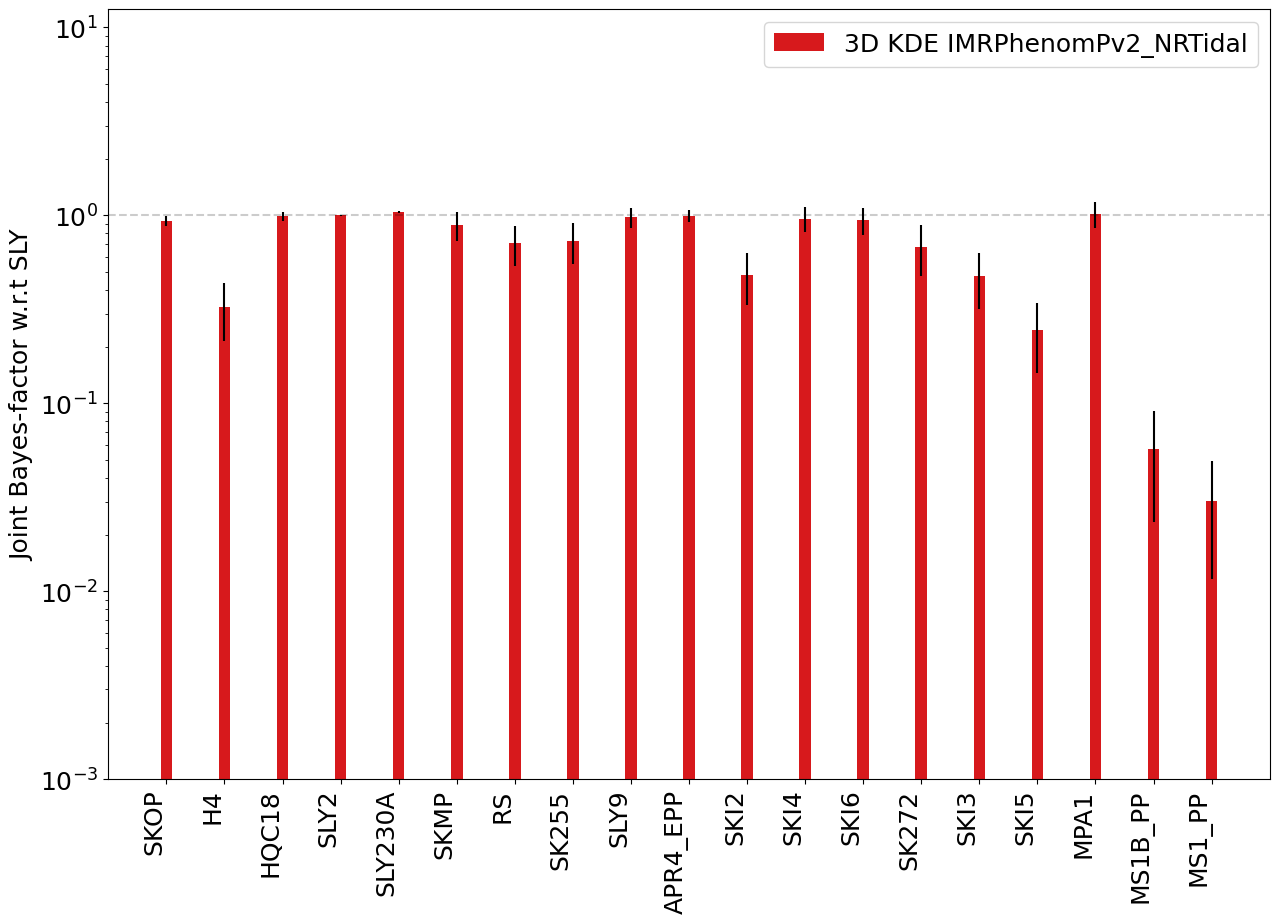
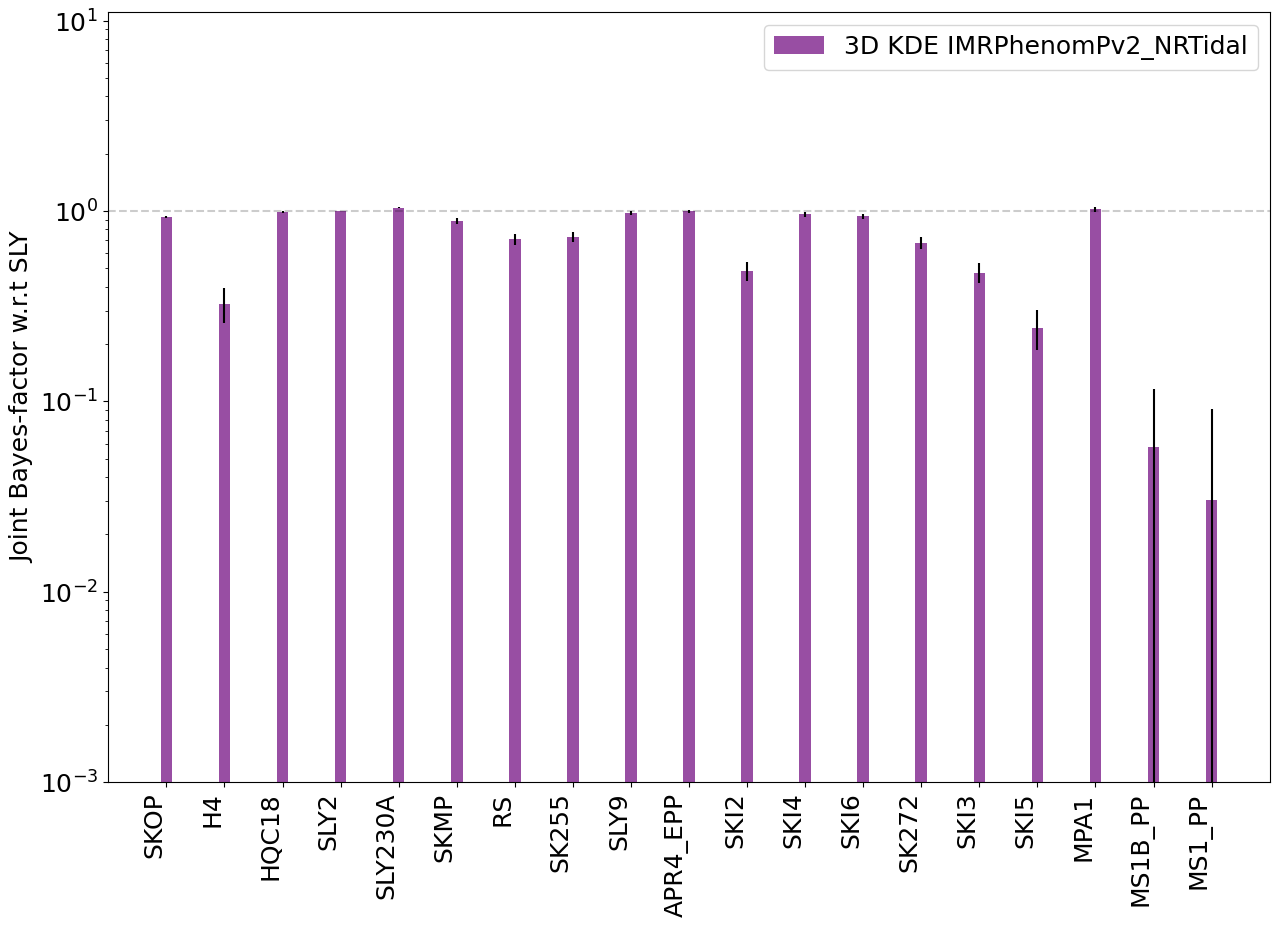
All NSBH sim 100 trial plots done.

diff --git a/year3/lastStretch/simulBFs.py b/year3/lastStretch/simulBFs.py
@@ -23,7 +23,7 @@ def singleEventBFs(Trials=1000):
                   '227_4.19_2.05','236_7.03_1.96','261_4.16_2.08','267_4.47_1.66','321_3.11_2.08',
                   '327_3.11_1.22','380_7.95_2.1','386_2.64_1.81','432_3.51_1.94','452_3.55_1.47',
                   '455_2.33_1.97','467_5.58_2.06','756_7.0_1.58']
-    #filenameEnd = "bns_example_result.json"
+
     filenameEnd = "bns_example_result_simplified.json"
 
     index = 0
@@ -45,6 +45,7 @@ def singleEventBFs(Trials=1000):
             uLTs_File = "{}/troublesome/{}/{}".format(uLTs_Dir,injection,filenameEnd)
             uLs_File = "{}/troublesome/{}/{}".format(uLs_Dir,injection,filenameEnd)
             phenomPhenom_File = "{}/troublesome/{}/{}".format(phenomPhenom_Dir,injection,filenameEnd)
+            # there are no nsbhPhenom troublesome sims
 
             modsel_uLTs = ems.Model_selection(uLTs_File,Ns=4000,kdedim=2)
             modsel_uLs = ems.Model_selection(uLs_File,Ns=4000,kdedim=3)
@@ -52,7 +53,7 @@ def singleEventBFs(Trials=1000):
 
         #methods = [modsel_uLTs, modsel_uLs,modsel_phenomPhenom]
         methods = [modsel_nsbhPhenom]
-        eosList = ["SKOP","H4","HQC18","SLY2","SLY230A","SKMP","RS","SK255","SLY9","APR4_EPP","SKI2","SKI4","SKI6","SK272","SKI3","SKI5","MPA1","MS1_PP","MS1B_PP"]
+        eosList = ["SKOP","H4","HQC18","SLY2","SLY230A","SKMP","RS","SK255","SLY9","APR4_EPP","SKI2","SKI4","SKI6","SK272","SKI3","SKI5","MPA1","MS1B_PP","MS1_PP"]
         methods_BFs = []
         methods_trials = []
         for method in methods:
@@ -62,13 +63,14 @@ def singleEventBFs(Trials=1000):
             for eos in eosList:
                 print(eos)
                 bf, bf_trials = method.computeEvidenceRatio(EoS1=eos,EoS2="SLY",trials=Trials)
-                print(bf)
                 #bf = method.computeEvidenceRatio(EoS1=eos,EoS2="SLY",trials=0)
                 BFs.append(bf)
-                trials.append(bf_trials.tolist())
+                #trials.append(np.nan) # 0 TRIAL CASE
+                trials.append(bf_trials)
             methods_BFs.append(BFs)
             methods_trials.append(trials)
         
+        #output = "data/NSBH/BFs/{}_BFs_0samp.json".format(injection)
         output = "data/NSBH/BFs/{}_BFs_100samp.json".format(injection)
 
         if os.path.isfile(output) == True:
@@ -109,9 +111,14 @@ def singleEventPlots():
             data = json.load(f)
 
         #labels = ["2D KDE TaylorF2", "3D KDE TaylorF2", "3D KDE PhenomNRT"]
+        #Labels = ["2D KDE TaylorF2", "3D KDE TaylorF2", "3D KDE IMRPhenomPv2_NRTidal"]
         labels = ["3D KDE PhenomPv2"]
+        Labels = ["3D KDE IMRPhenomPv2_NRTidal"]
+
         eosList = ["SKOP","H4","HQC18","SLY2","SLY230A","SKMP","RS","SK255","SLY9","APR4_EPP","SKI2","SKI4","SKI6","SK272","SKI3","SKI5","MPA1","MS1_PP","MS1B_PP"]
-        colors = ["#d7191c"]
+        #colors = ['#ffffb3','#bebada','#fb8072']
+        #colors = ["#984ea3","#ff7f00"]
+        colors = ["#984ea3"]
         x_axis = np.arange(len(eosList))
         #spacing = [-.20,0.,.20]
         spacing = [0]
@@ -155,9 +162,9 @@ def multipleEventBFs(Trials=1000):
     #phenomPhenom_Files = glob.glob("{}/*/*simplified.json".format(phenomPhenom_Dir)) + glob.glob("{}/troublesome/*/*simplified.json".format(phenomPhenom_Dir))
     nsbhPhenom_Files = glob.glob("{}/*/*simplified.json".format(nsbhPhenom_Dir))
 
-    #stack_uLTs = ems.Stacking(uLTs_Files,kdedim=2)
-    #stack_uLs = ems.Stacking(uLs_Files,kdedim=3)
-    #stack_phenomPhenom = ems.Stacking(phenomPhenom_Files,kdedim=3)
+    #stack_uLTs = ems.Stacking(uLTs_Files,kdedim=2, Ns=4000)
+    #stack_uLs = ems.Stacking(uLs_Files,kdedim=3, Ns=4000)
+    #stack_phenomPhenom = ems.Stacking(phenomPhenom_Files,kdedim=3, Ns=4000)
     stack_nsbhPhenom = ems.Stacking(nsbhPhenom_Files,kdedim=3, Ns=4000)
 
     #output = "data/BNS/BFs/16simulations_2D_3D_BFs_1000trial.json"
@@ -182,11 +189,10 @@ def multipleEventBFs(Trials=1000):
             events_errors = stack.all_bayes_factors_errors # each events separate error
             #bf = stack.stack_events(EoS1=eos,EoS2="SLY",trials=0)
             uncert = np.std(bf_trials) * 2 # np.std of joint BF array (traditional method)
-            uncert2 = np.std(events_errors) * 2 # double np.std
             BFs.append(bf)
             #uncerts.append(np.nan) # 0 TRIAL CASE
             uncerts.append(uncert)
-            uncerts2.append(uncert)
+            uncerts2.append(events_errors)
         stacks_BFs.append(BFs)
         stacks_uncerts.append(uncerts)
         stacks_uncerts2.append(uncerts2)
@@ -224,7 +230,8 @@ def multipleEventPlots():
     Labels = ["3D KDE IMRPhenomPv2_NRTidal"]
     eosList = ["SKOP","H4","HQC18","SLY2","SLY230A","SKMP","RS","SK255","SLY9","APR4_EPP","SKI2","SKI4","SKI6","SK272","SKI3","SKI5","MPA1","MS1B_PP","MS1_PP"]
     #colors = ['#ffffb3','#bebada','#fb8072']
-    colors = ["#d7191c"]
+    #colors = ["#984ea3","#ff7f00"]
+    colors = ["#984ea3"]
     x_axis = np.arange(len(eosList))
     #spacing = [-.20,0.,.20]
     spacing = [.0]
@@ -241,7 +248,7 @@ def multipleEventPlots():
         for eos in eosList:
             BFs.append(data[label][eos][0])
             #uncert = data[label][eos][1]
-            uncert = data[label][eos][2]
+            uncert = np.std(data[label][eos][2])
             uncerts.append(uncert)
  
         plt.bar(x_axis+spacing[counter],BFs,.20,label=Labels[counter],color=colors[counter])
